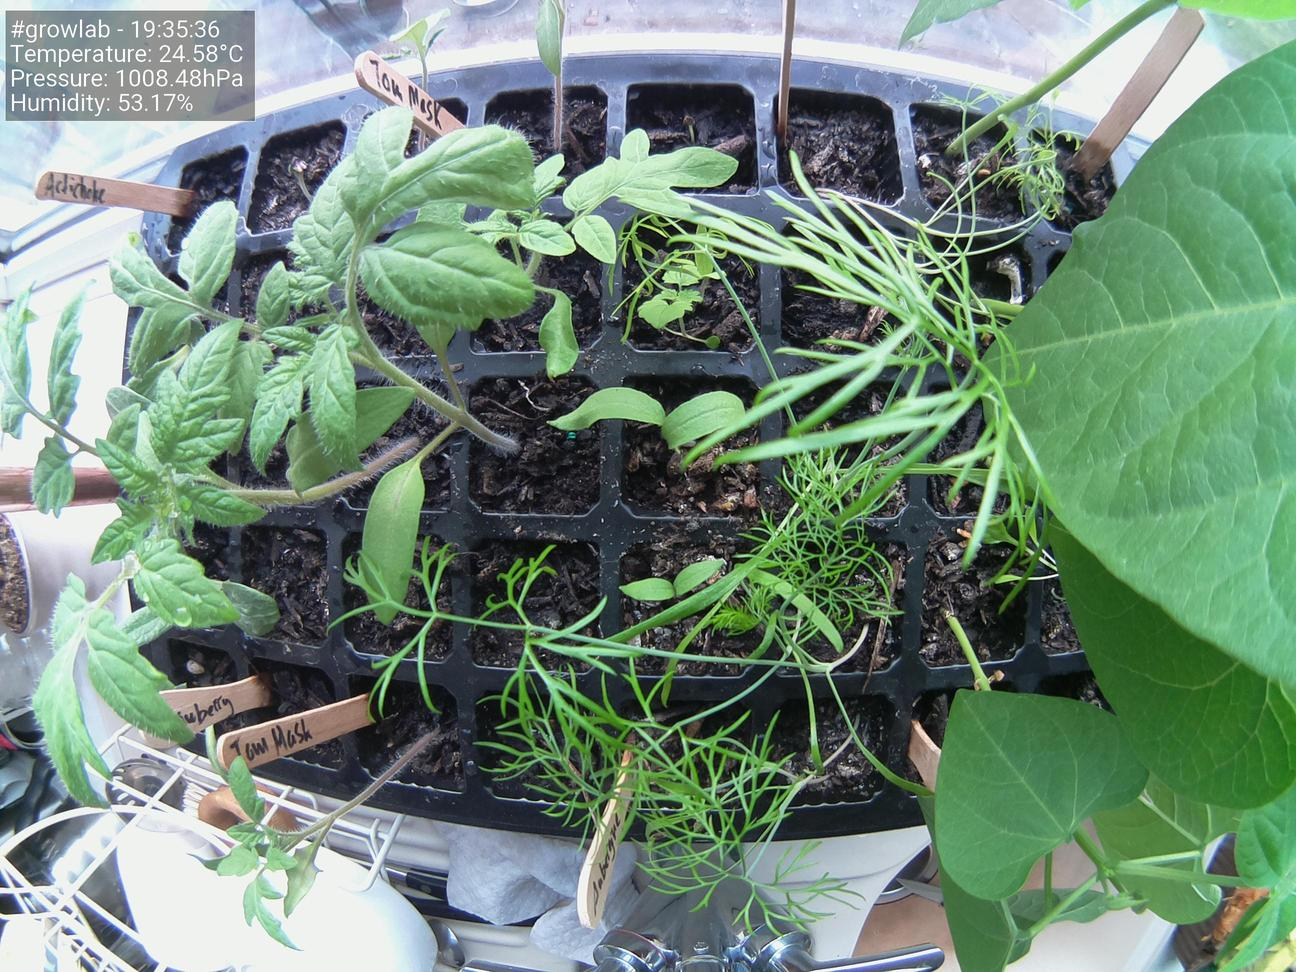
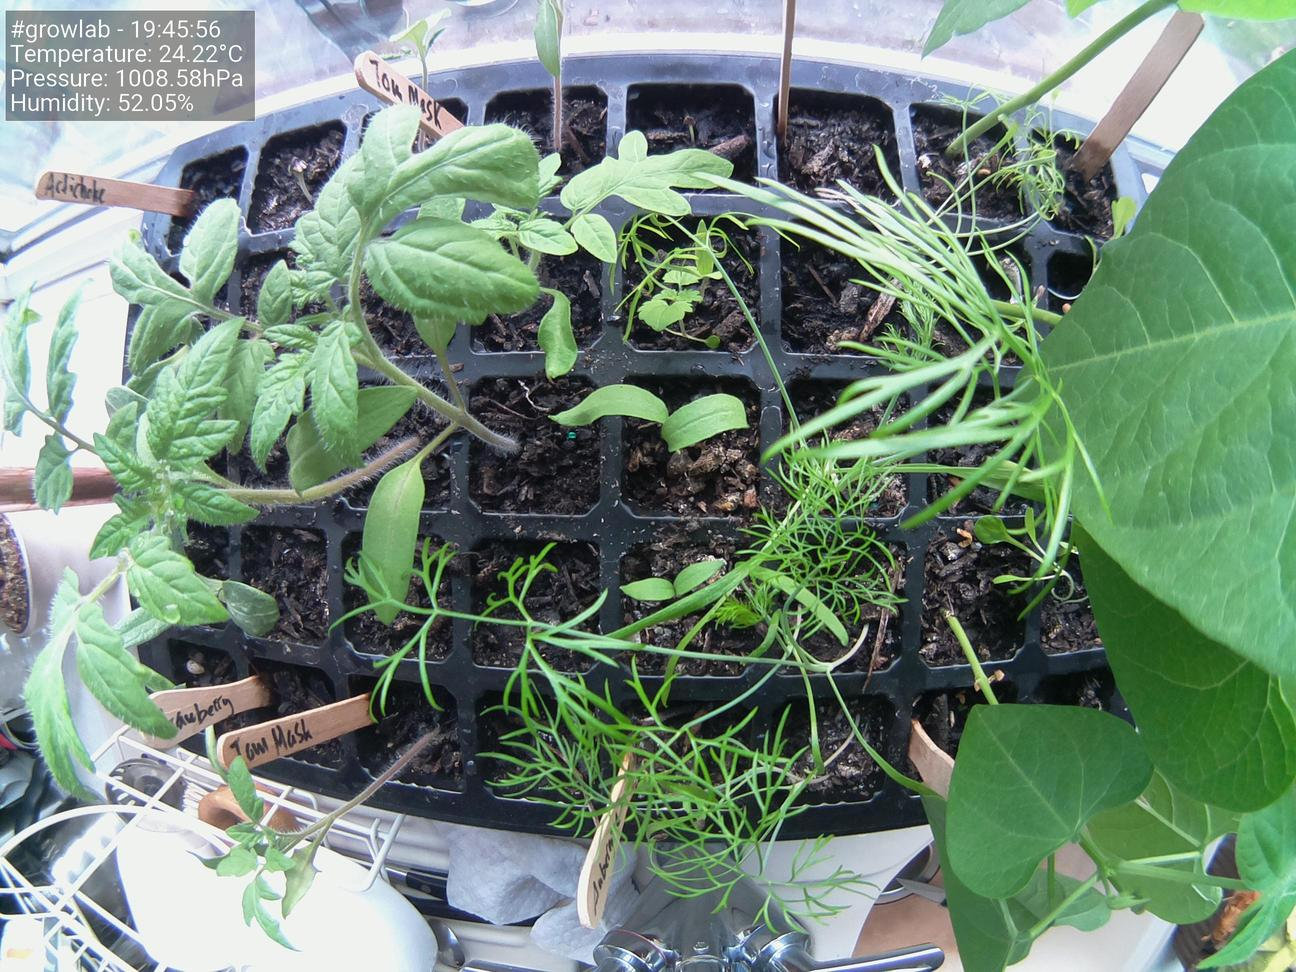
Update images at Wed 28 Apr 19:46:07 BST 2021

diff --git a/docs/index.html b/docs/index.html
@@ -38,19 +38,19 @@
                     <tbody>
                         <tr>
                             <td>Time</td>
-                            <td>19:35:36</td>
+                            <td>19:45:56</td>
                         </tr>
                         <tr>
                             <td>Temperature</td>
-                            <td>24.58°C</td>
+                            <td>24.22°C</td>
                         </tr>
                         <tr>
                             <td>Humidity</td>
-                            <td>53.17%</td>
+                            <td>52.05%</td>
                         </tr>
                         <tr>
                             <td>Pressure</td>
-                            <td>1008.48hPa</td>
+                            <td>1008.58hPa</td>
                         </tr>
                     </tbody>
                 </table>
@@ -58,7 +58,7 @@
 
                 <h5>Latest image</h5>
 		<div style="width: 85%;">
-	                <img class="figure-img img-fluid rounded" src="./preview.jpg?uid=1619634947.6229784">
+	                <img class="figure-img img-fluid rounded" src="./preview.jpg?uid=1619635567.3552325">
 		</div>
             </div>
         </div>
